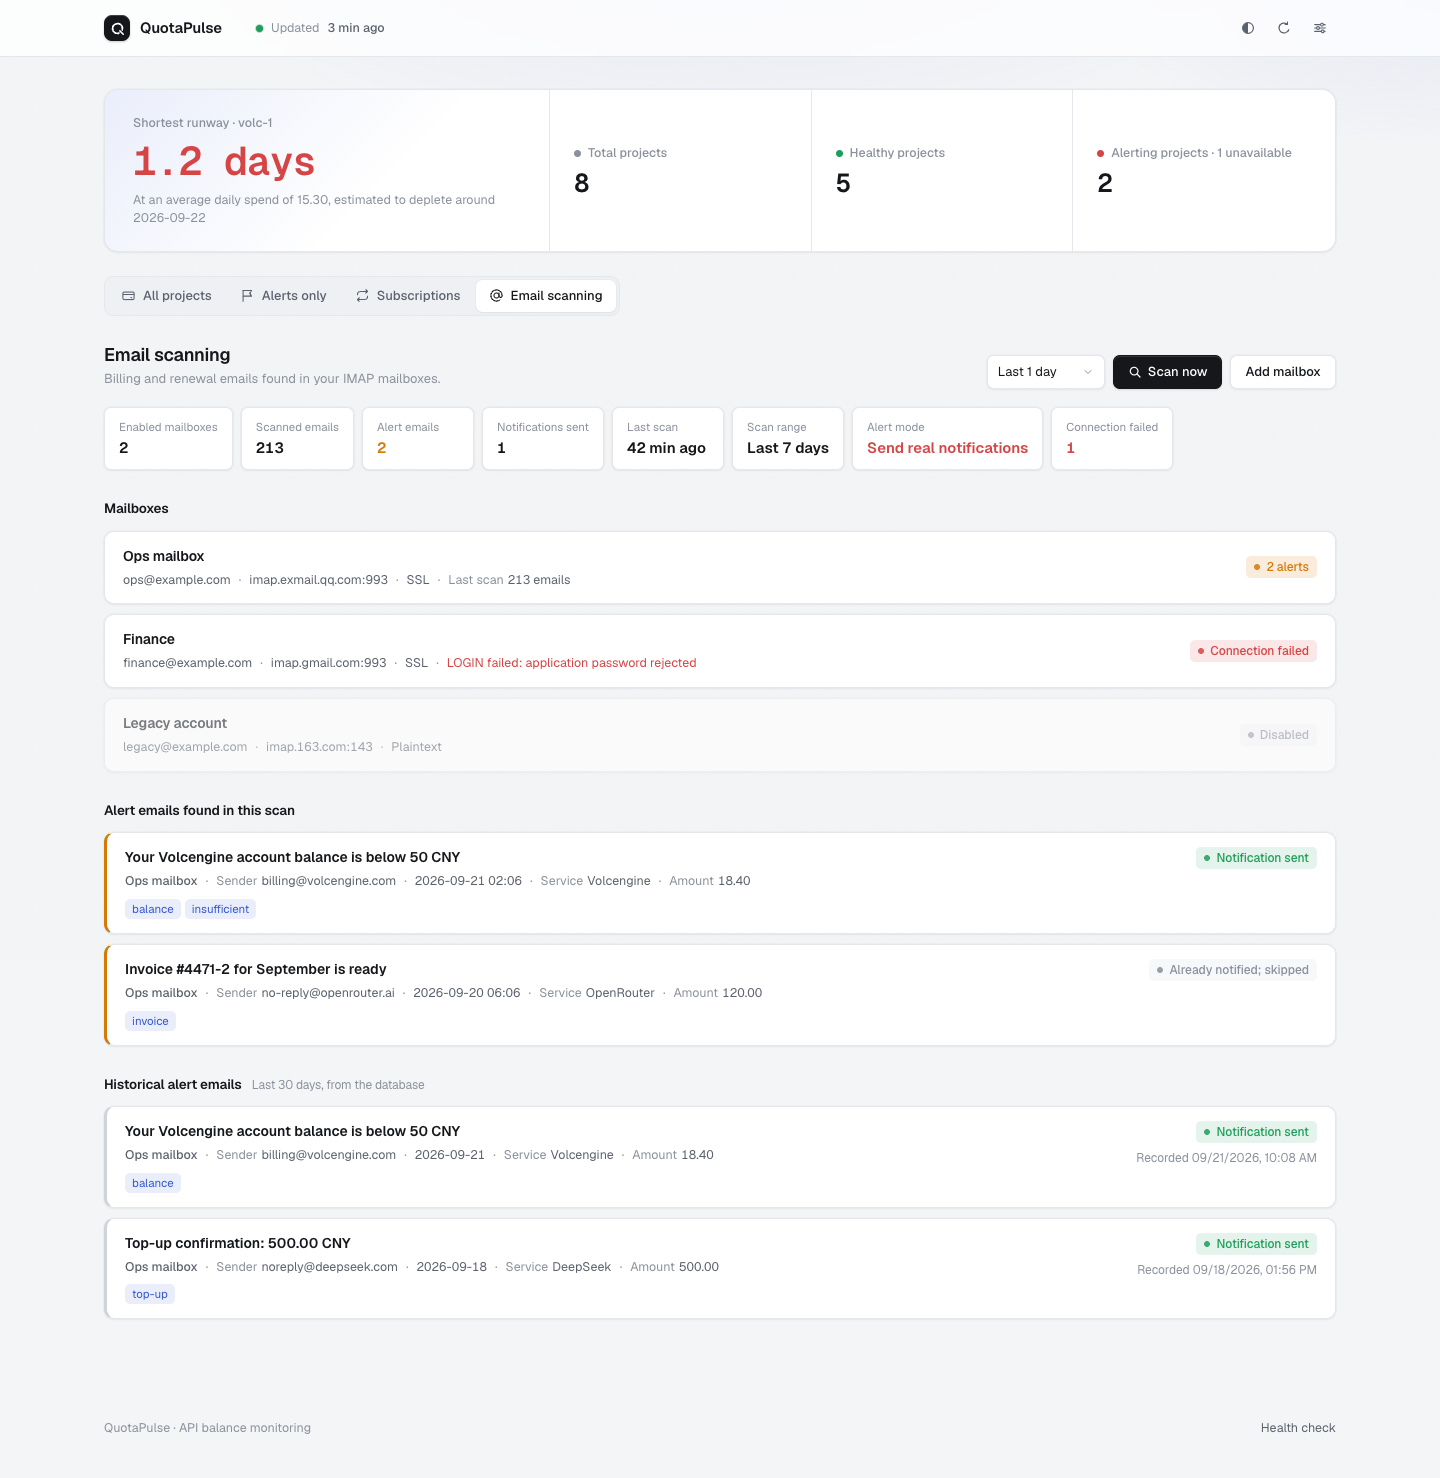
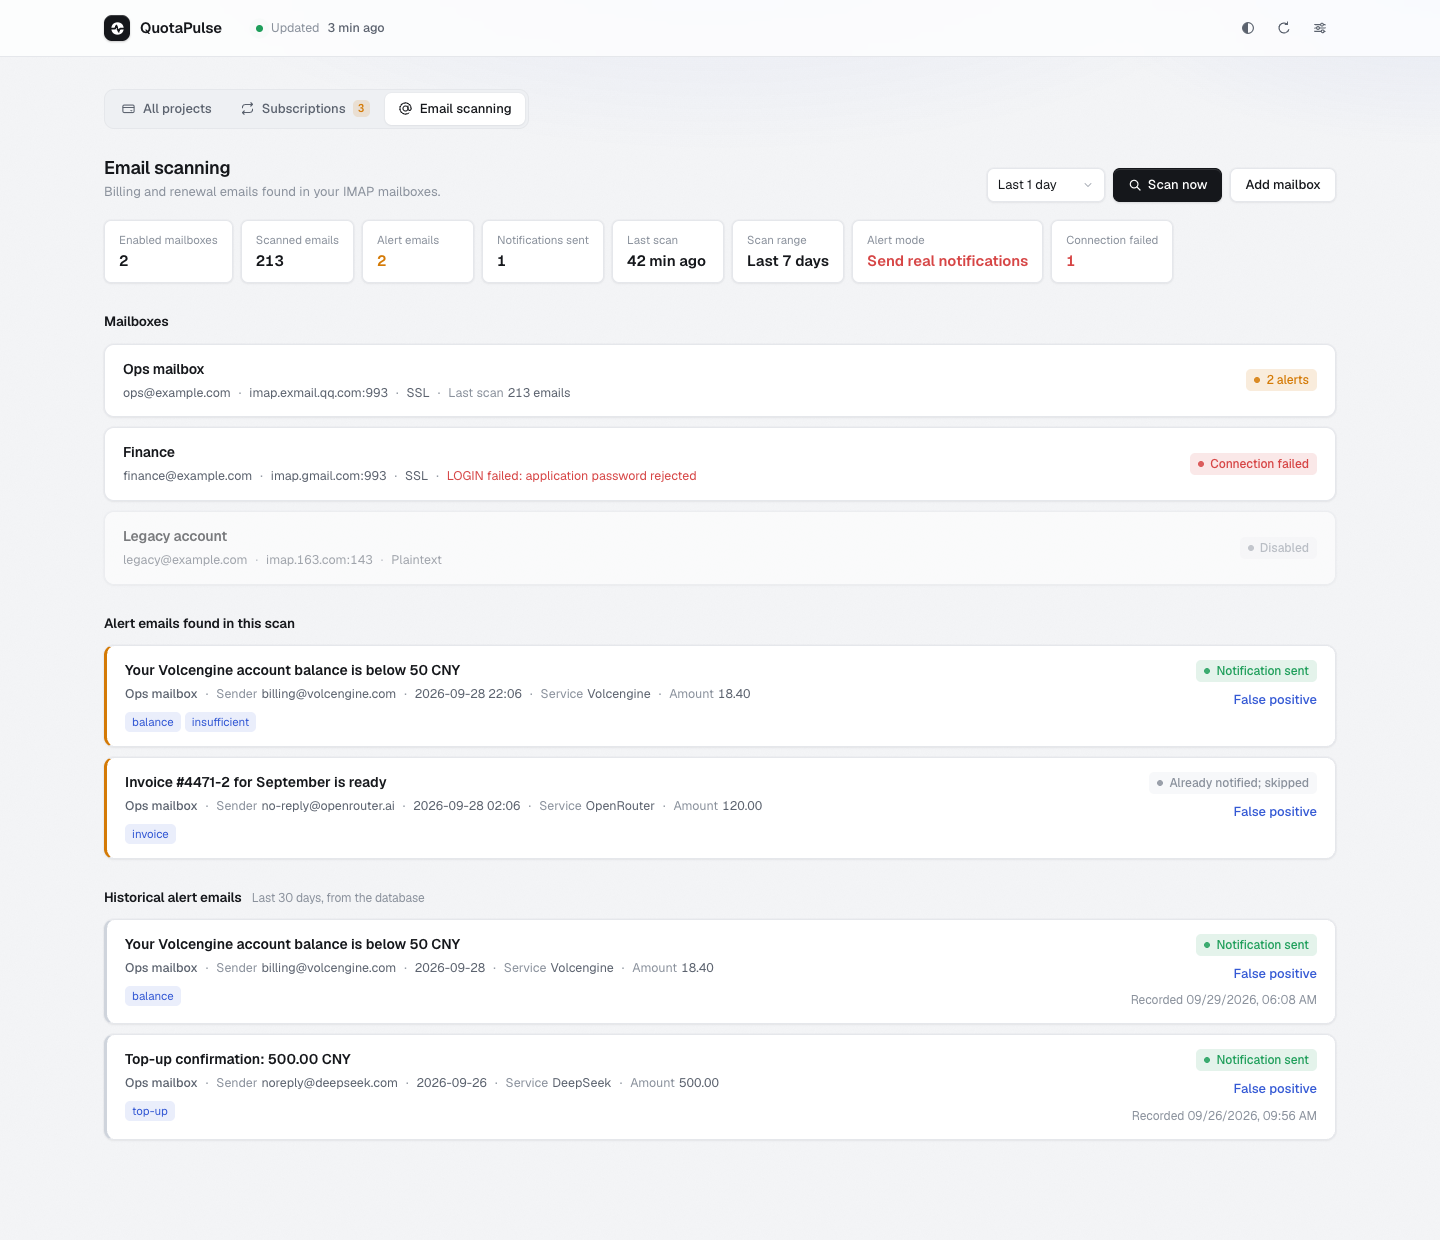
docs: refresh the overview screenshots
The screenshots predated several UI changes: they still showed the Q
mark, the removed footer, Alerts only as a view tab, and the overview
band on the email view. Re-shot all ten against the current build, in
the same themes as before, and updated the quoted depletion date to
match.

The full-page shots were captured with the viewport grown to the page
height. Capturing beyond the viewport leaves the fixed grain overlay
covering only the first screen, which showed as a seam in the old dark
screenshots.

diff --git a/docs/overview.md b/docs/overview.md
@@ -39,7 +39,7 @@ instead of pretending the balance is zero.
 
 Runway is the core idea. QuotaPulse stores balance snapshots, measures how fast each
 account actually burns, and projects a depletion date — "at 15.30 per day, this account
-is empty around 2026-09-22". Estimates that lack enough history say so honestly instead
+is empty around 2026-09-30". Estimates that lack enough history say so honestly instead
 of guessing. When an account crosses its threshold, the card turns red and an alert goes
 out through your webhook once, with a cooldown so a bad night does not spam the channel.
 
@@ -57,11 +57,10 @@ aligned in a compact table, and the toggle remembers your choice.
 Subscriptions are sorted by next renewal date, with the days-remaining figure escalating
 from amber (14 days) to red (7). Renewed something early? Mark it and QuotaPulse pushes
 the next reminder out; the mark is visible until you clear it. Weekly, monthly,
-Gregorian-yearly, and lunar-yearly cycles are all supported.
- Switching to this view reshapes the
-overview band: the hero figure becomes the number of renewals due within 7 days — with
-the next one named — flanked by due-in-30-days, renewed-this-cycle, and an estimated
-monthly cost that normalizes the different billing cycles.
+Gregorian-yearly, and lunar-yearly cycles are all supported. Switching to this view
+reshapes the overview band: the hero figure becomes the number of renewals due within
+7 days — with the next one named — flanked by due-in-30-days, renewed-this-cycle, and an
+estimated monthly cost that normalizes the different billing cycles.
 
 ![Subscription reminders](images/subscriptions.png)
 
